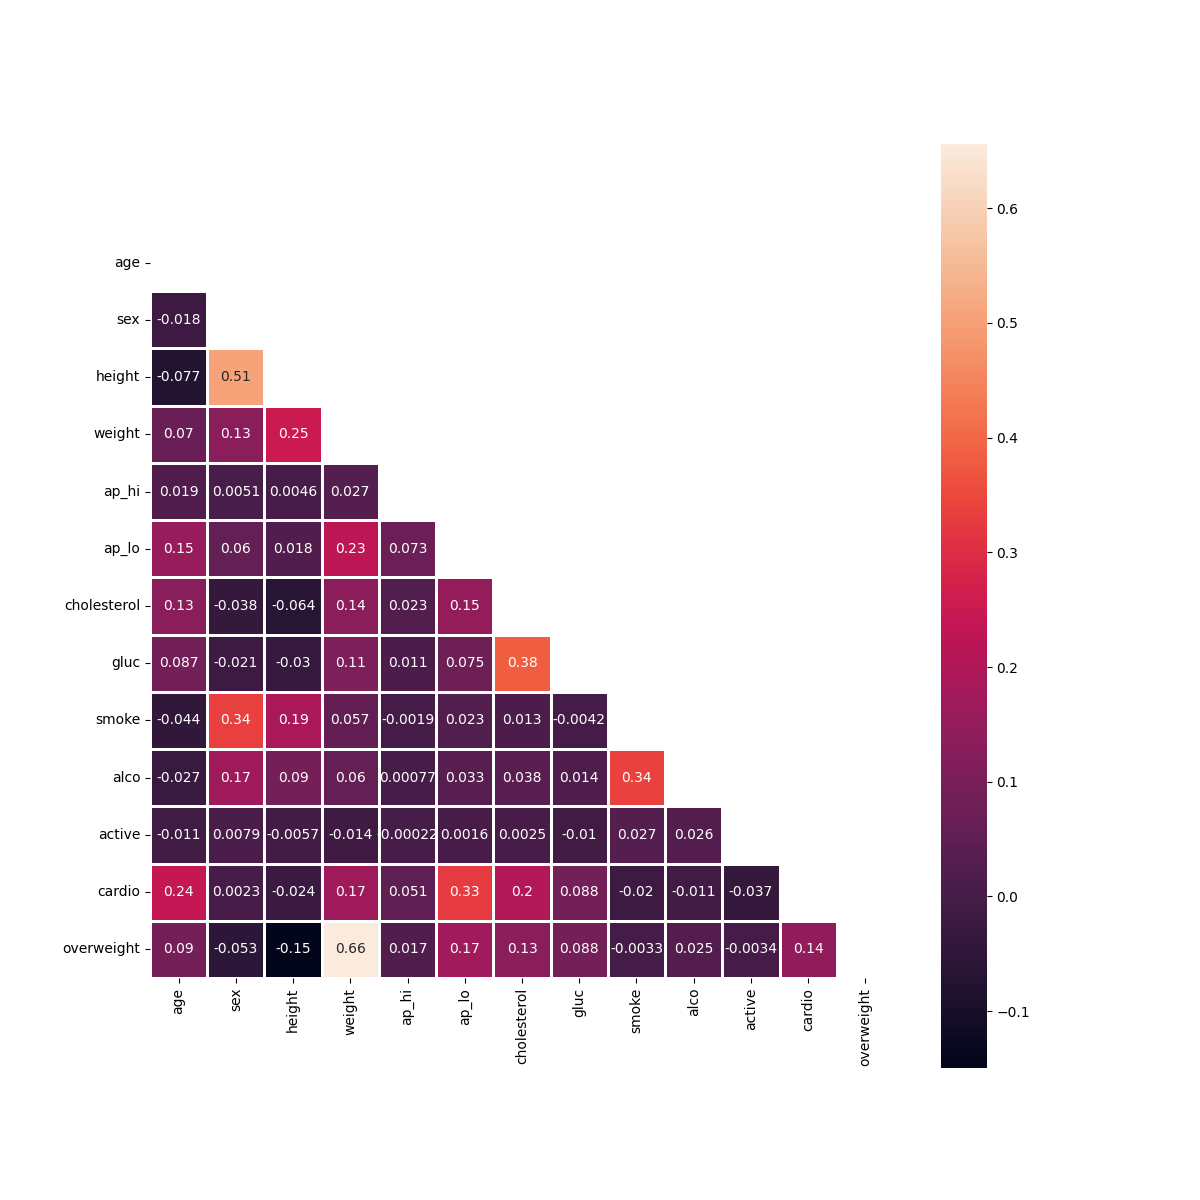
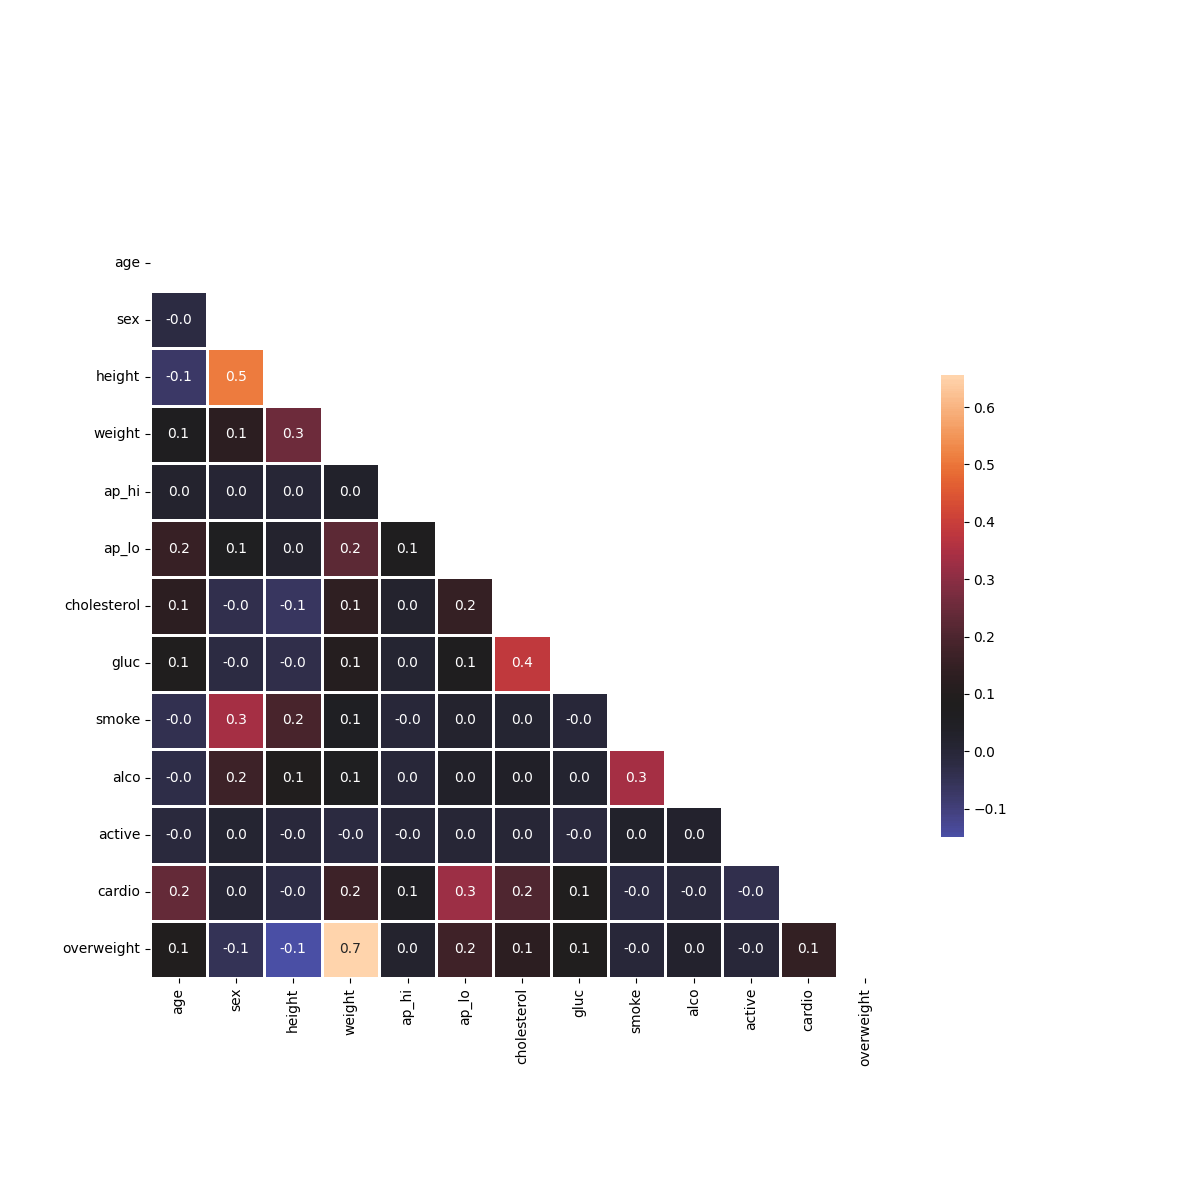
finale

Changed region(s): [[0.1233, 0.2467, 0.7092, 0.8325], [0.7708, 0.1233, 0.8325, 0.8942]]

diff --git a/medical_data_visualizer.py b/medical_data_visualizer.py
@@ -50,7 +50,7 @@ def draw_heat_map():
     fig, ax = plt.subplots(figsize=(12,12))
 
     # Draw the heatmap with 'sns.heatmap()'
-    sns.heatmap(corr, mask=mask, linewidths=1, annot=True, square=True)
+    sns.heatmap(corr, mask=mask, linewidths=1, annot=True, square=True, fmt=".1f", center=0.08, cbar_kws={"shrink":0.5})
 
     # Do not modify the next two lines
     fig.savefig('heatmap.png')
